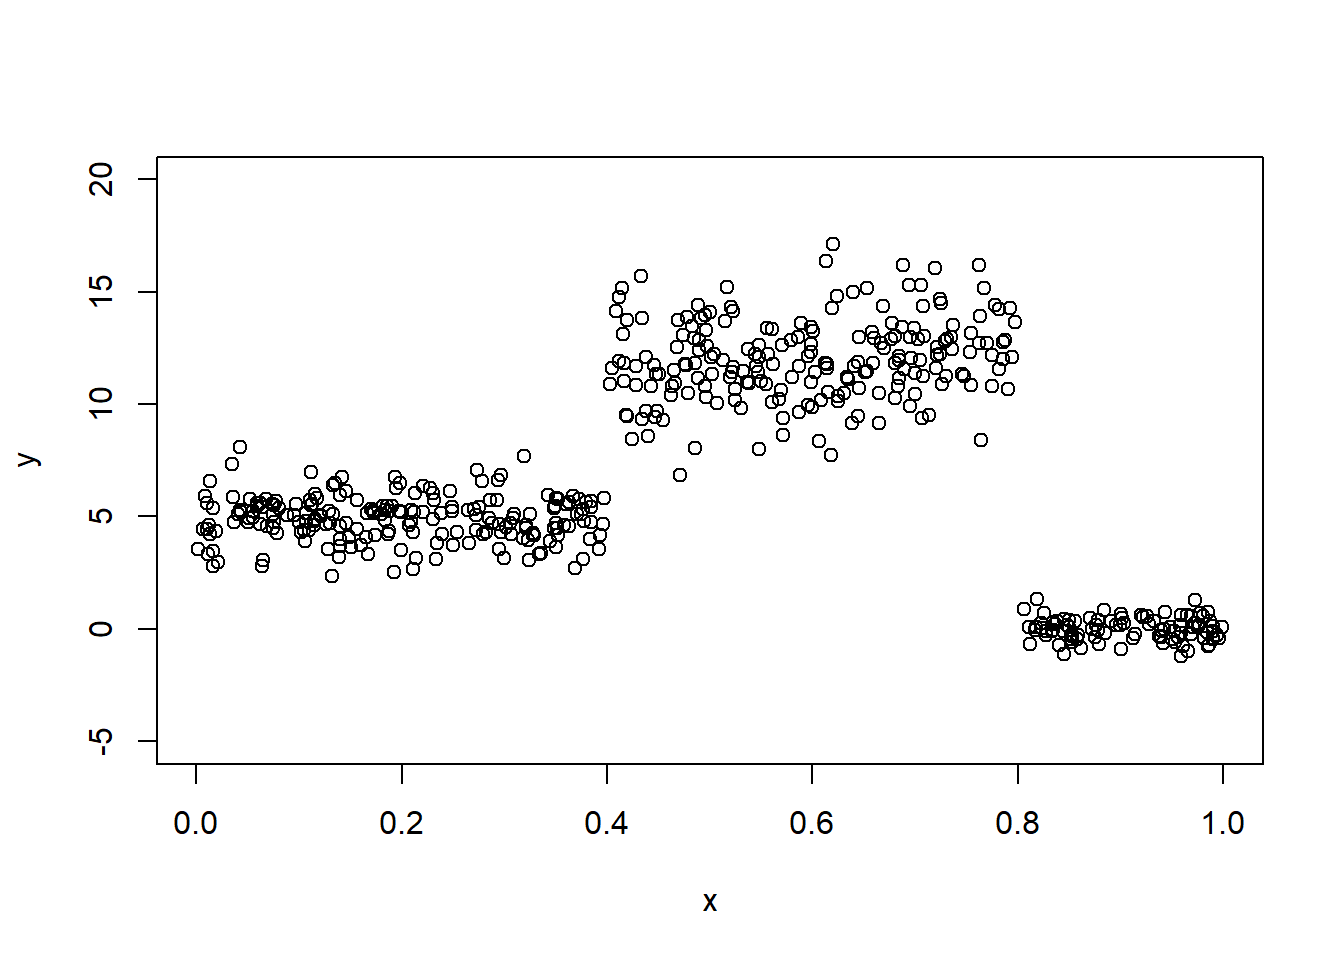
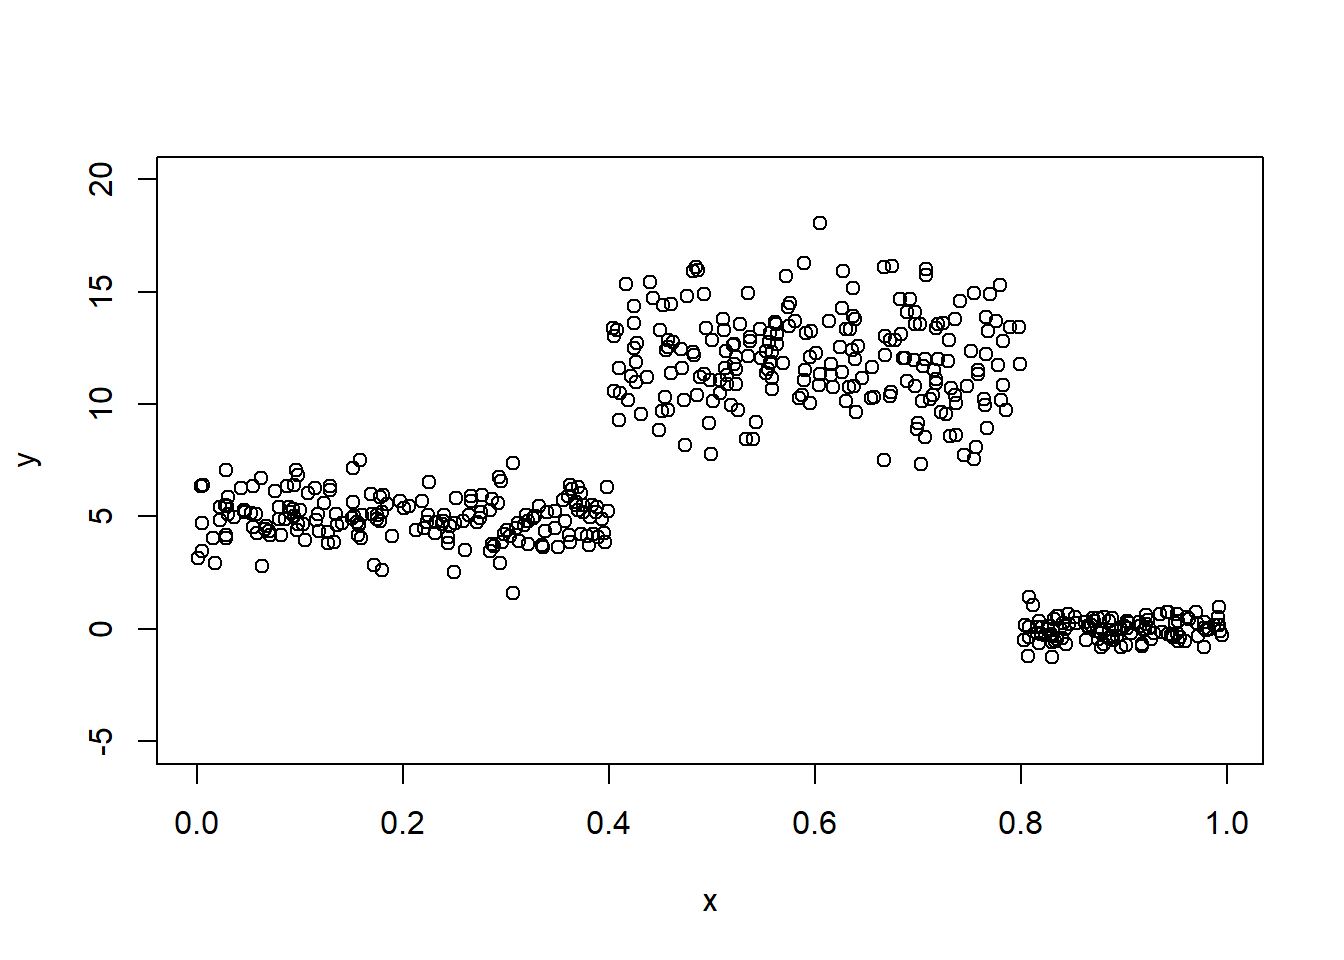
cambio menores nuevo cap

diff --git a/docs/arb-distri.html b/docs/arb-distri.html
@@ -258,7 +258,7 @@ div.csl-indent {
             <section class="normal" id="section-">
 <div id="arb-distri" class="section level1 hasAnchor" number="3">
 <h1><span class="header-section-number">3</span> Árboles de regresión distribucionales<a href="arb-distri.html#arb-distri" class="anchor-section" aria-label="Anchor link to header"></a></h1>
-<p>Los árboles de regresión distribucionales fueron propuestos por <span class="citation">Schlosser (<a href="#ref-LisaSchlosser2020" role="doc-biblioref">2020</a>)</span>.</p>
+<p>Los árboles de regresión distribucionales fueron propuestos por Lisa <span class="citation">Schlosser (<a href="#ref-LisaSchlosser2020" role="doc-biblioref">2020</a>)</span>.</p>
 <p>Abajo una comparación entre un árbol de regresión y un árbol de regresión distribucional.</p>
 <p align="center">
 <img src="images/arbol_vs_arboldistri.png" width="1000">
@@ -309,43 +309,16 @@ Para encontrar las distribuciones que mejor explican a <span class="math inline"
 <p>Vamos ahora a crear el árbol distribucional con <code>family=NO</code>.</p>
 <div class="sourceCode" id="cb4"><pre class="sourceCode r"><code class="sourceCode r"><span id="cb4-1"><a href="arb-distri.html#cb4-1" aria-hidden="true" tabindex="-1"></a><span class="fu">library</span>(disttree)</span>
 <span id="cb4-2"><a href="arb-distri.html#cb4-2" aria-hidden="true" tabindex="-1"></a>mod <span class="ot">&lt;-</span> <span class="fu">disttree</span>(y <span class="sc">~</span> x, <span class="at">data=</span>datos, <span class="at">family=</span>NO)</span>
-<span id="cb4-3"><a href="arb-distri.html#cb4-3" aria-hidden="true" tabindex="-1"></a>mod</span></code></pre></div>
-<pre><code>## Distributional regression tree (Normal Distribution)
-## 
-## Model formula:
-## y ~ x
-## 
-## Fitted party:
-## [1] root
-## |   [2] x &lt;= 0.79701
-## |   |   [3] x &lt;= 0.39739: n = 200
-## |   |             mu    sigma 
-## |   |       4.892360 1.012478 
-## |   |   [4] x &gt; 0.39739
-## |   |   |   [5] x &lt;= 0.64507: n = 129
-## |   |   |              mu     sigma 
-## |   |   |       11.681977  1.843235 
-## |   |   |   [6] x &gt; 0.64507: n = 76
-## |   |   |              mu     sigma 
-## |   |   |       12.508719  1.633353 
-## |   [7] x &gt; 0.79701: n = 95
-## |                 mu        sigma 
-## |       -0.002812749  0.502259542 
-## 
-## Number of inner nodes:    3
-## Number of terminal nodes: 4
-## Number of parameters per node: 2
-## Objective function (negative log-likelihood): 762.7034</code></pre>
-<div class="sourceCode" id="cb6"><pre class="sourceCode r"><code class="sourceCode r"><span id="cb6-1"><a href="arb-distri.html#cb6-1" aria-hidden="true" tabindex="-1"></a><span class="fu">plot</span>(mod)</span></code></pre></div>
+<span id="cb4-3"><a href="arb-distri.html#cb4-3" aria-hidden="true" tabindex="-1"></a><span class="fu">plot</span>(mod)</span></code></pre></div>
 <p><img src="libro_mod_pred_files/figure-html/unnamed-chunk-5-1.png" width="672" /></p>
 <p>¿Cuál será el valor estimado de <span class="math inline">\(Y\)</span> para tres nuevos objetos que tiene valor de <span class="math inline">\(x=0.35\)</span>, <span class="math inline">\(x=0.47\)</span> y <span class="math inline">\(x=0.89\)</span> respectivamente?</p>
-<div class="sourceCode" id="cb7"><pre class="sourceCode r"><code class="sourceCode r"><span id="cb7-1"><a href="arb-distri.html#cb7-1" aria-hidden="true" tabindex="-1"></a>new_data <span class="ot">&lt;-</span> <span class="fu">data.frame</span>(<span class="at">x=</span><span class="fu">c</span>(<span class="fl">0.35</span>, <span class="fl">0.47</span>, <span class="fl">0.89</span>))</span>
-<span id="cb7-2"><a href="arb-distri.html#cb7-2" aria-hidden="true" tabindex="-1"></a>predicciones <span class="ot">&lt;-</span> <span class="fu">predict</span>(mod, <span class="at">newdata=</span>new_data)</span>
-<span id="cb7-3"><a href="arb-distri.html#cb7-3" aria-hidden="true" tabindex="-1"></a>predicciones</span></code></pre></div>
-<pre><code>##             mu     sigma
-## 1  4.892359909 1.0124781
-## 2 11.681976598 1.8432350
-## 3 -0.002812749 0.5022595</code></pre>
+<div class="sourceCode" id="cb5"><pre class="sourceCode r"><code class="sourceCode r"><span id="cb5-1"><a href="arb-distri.html#cb5-1" aria-hidden="true" tabindex="-1"></a>new_data <span class="ot">&lt;-</span> <span class="fu">data.frame</span>(<span class="at">x=</span><span class="fu">c</span>(<span class="fl">0.35</span>, <span class="fl">0.47</span>, <span class="fl">0.89</span>))</span>
+<span id="cb5-2"><a href="arb-distri.html#cb5-2" aria-hidden="true" tabindex="-1"></a>predicciones <span class="ot">&lt;-</span> <span class="fu">predict</span>(mod, <span class="at">newdata=</span>new_data)</span>
+<span id="cb5-3"><a href="arb-distri.html#cb5-3" aria-hidden="true" tabindex="-1"></a>predicciones</span></code></pre></div>
+<pre><code>##            mu     sigma
+## 1  4.95364869 0.9901405
+## 2 12.04722142 1.9994955
+## 3  0.00288584 0.4717285</code></pre>
 </div>
 <div id="ejemplo-2" class="section level2 unnumbered hasAnchor">
 <h2>Ejemplo<a href="arb-distri.html#ejemplo-2" class="anchor-section" aria-label="Anchor link to header"></a></h2>
@@ -354,6 +327,17 @@ Para encontrar las distribuciones que mejor explican a <span class="math inline"
 <img src="images/ecua_ejemplo_disttree.png" width="350">
 </p>
 <p>El siguiente código sirve para simular los datos.</p>
+<div class="sourceCode" id="cb7"><pre class="sourceCode r"><code class="sourceCode r"><span id="cb7-1"><a href="arb-distri.html#cb7-1" aria-hidden="true" tabindex="-1"></a>n <span class="ot">&lt;-</span> <span class="dv">300</span></span>
+<span id="cb7-2"><a href="arb-distri.html#cb7-2" aria-hidden="true" tabindex="-1"></a>k <span class="ot">&lt;-</span> <span class="dv">2</span></span>
+<span id="cb7-3"><a href="arb-distri.html#cb7-3" aria-hidden="true" tabindex="-1"></a>x <span class="ot">&lt;-</span> <span class="fu">runif</span>(<span class="at">n=</span>n, <span class="at">min=</span><span class="sc">-</span><span class="fl">0.4</span>, <span class="at">max=</span><span class="dv">1</span>)</span>
+<span id="cb7-4"><a href="arb-distri.html#cb7-4" aria-hidden="true" tabindex="-1"></a>media <span class="ot">&lt;-</span> <span class="dv">10</span> <span class="sc">*</span> <span class="fu">exp</span>(<span class="sc">-</span>(<span class="dv">4</span><span class="sc">*</span>x<span class="dv">-2</span>)<span class="sc">^</span>(<span class="dv">2</span><span class="sc">*</span>k))</span>
+<span id="cb7-5"><a href="arb-distri.html#cb7-5" aria-hidden="true" tabindex="-1"></a>desvi <span class="ot">&lt;-</span> <span class="fl">0.5</span> <span class="sc">+</span> <span class="dv">2</span> <span class="sc">*</span> <span class="fu">abs</span>(x)</span>
+<span id="cb7-6"><a href="arb-distri.html#cb7-6" aria-hidden="true" tabindex="-1"></a>y <span class="ot">&lt;-</span> <span class="fu">rnorm</span>(<span class="at">n=</span>n, <span class="at">mean=</span>media, <span class="at">sd=</span>desvi)</span>
+<span id="cb7-7"><a href="arb-distri.html#cb7-7" aria-hidden="true" tabindex="-1"></a>datos <span class="ot">&lt;-</span> <span class="fu">data.frame</span>(y, x)</span></code></pre></div>
+<div class="sourceCode" id="cb8"><pre class="sourceCode r"><code class="sourceCode r"><span id="cb8-1"><a href="arb-distri.html#cb8-1" aria-hidden="true" tabindex="-1"></a><span class="fu">library</span>(disttree)</span>
+<span id="cb8-2"><a href="arb-distri.html#cb8-2" aria-hidden="true" tabindex="-1"></a>mod <span class="ot">&lt;-</span> <span class="fu">disttree</span>(y <span class="sc">~</span> x, <span class="at">data=</span>datos, <span class="at">family=</span>NO)</span>
+<span id="cb8-3"><a href="arb-distri.html#cb8-3" aria-hidden="true" tabindex="-1"></a><span class="fu">plot</span>(mod)</span></code></pre></div>
+<p><img src="libro_mod_pred_files/figure-html/unnamed-chunk-8-1.png" width="672" /></p>
 
 </div>
 </div>
